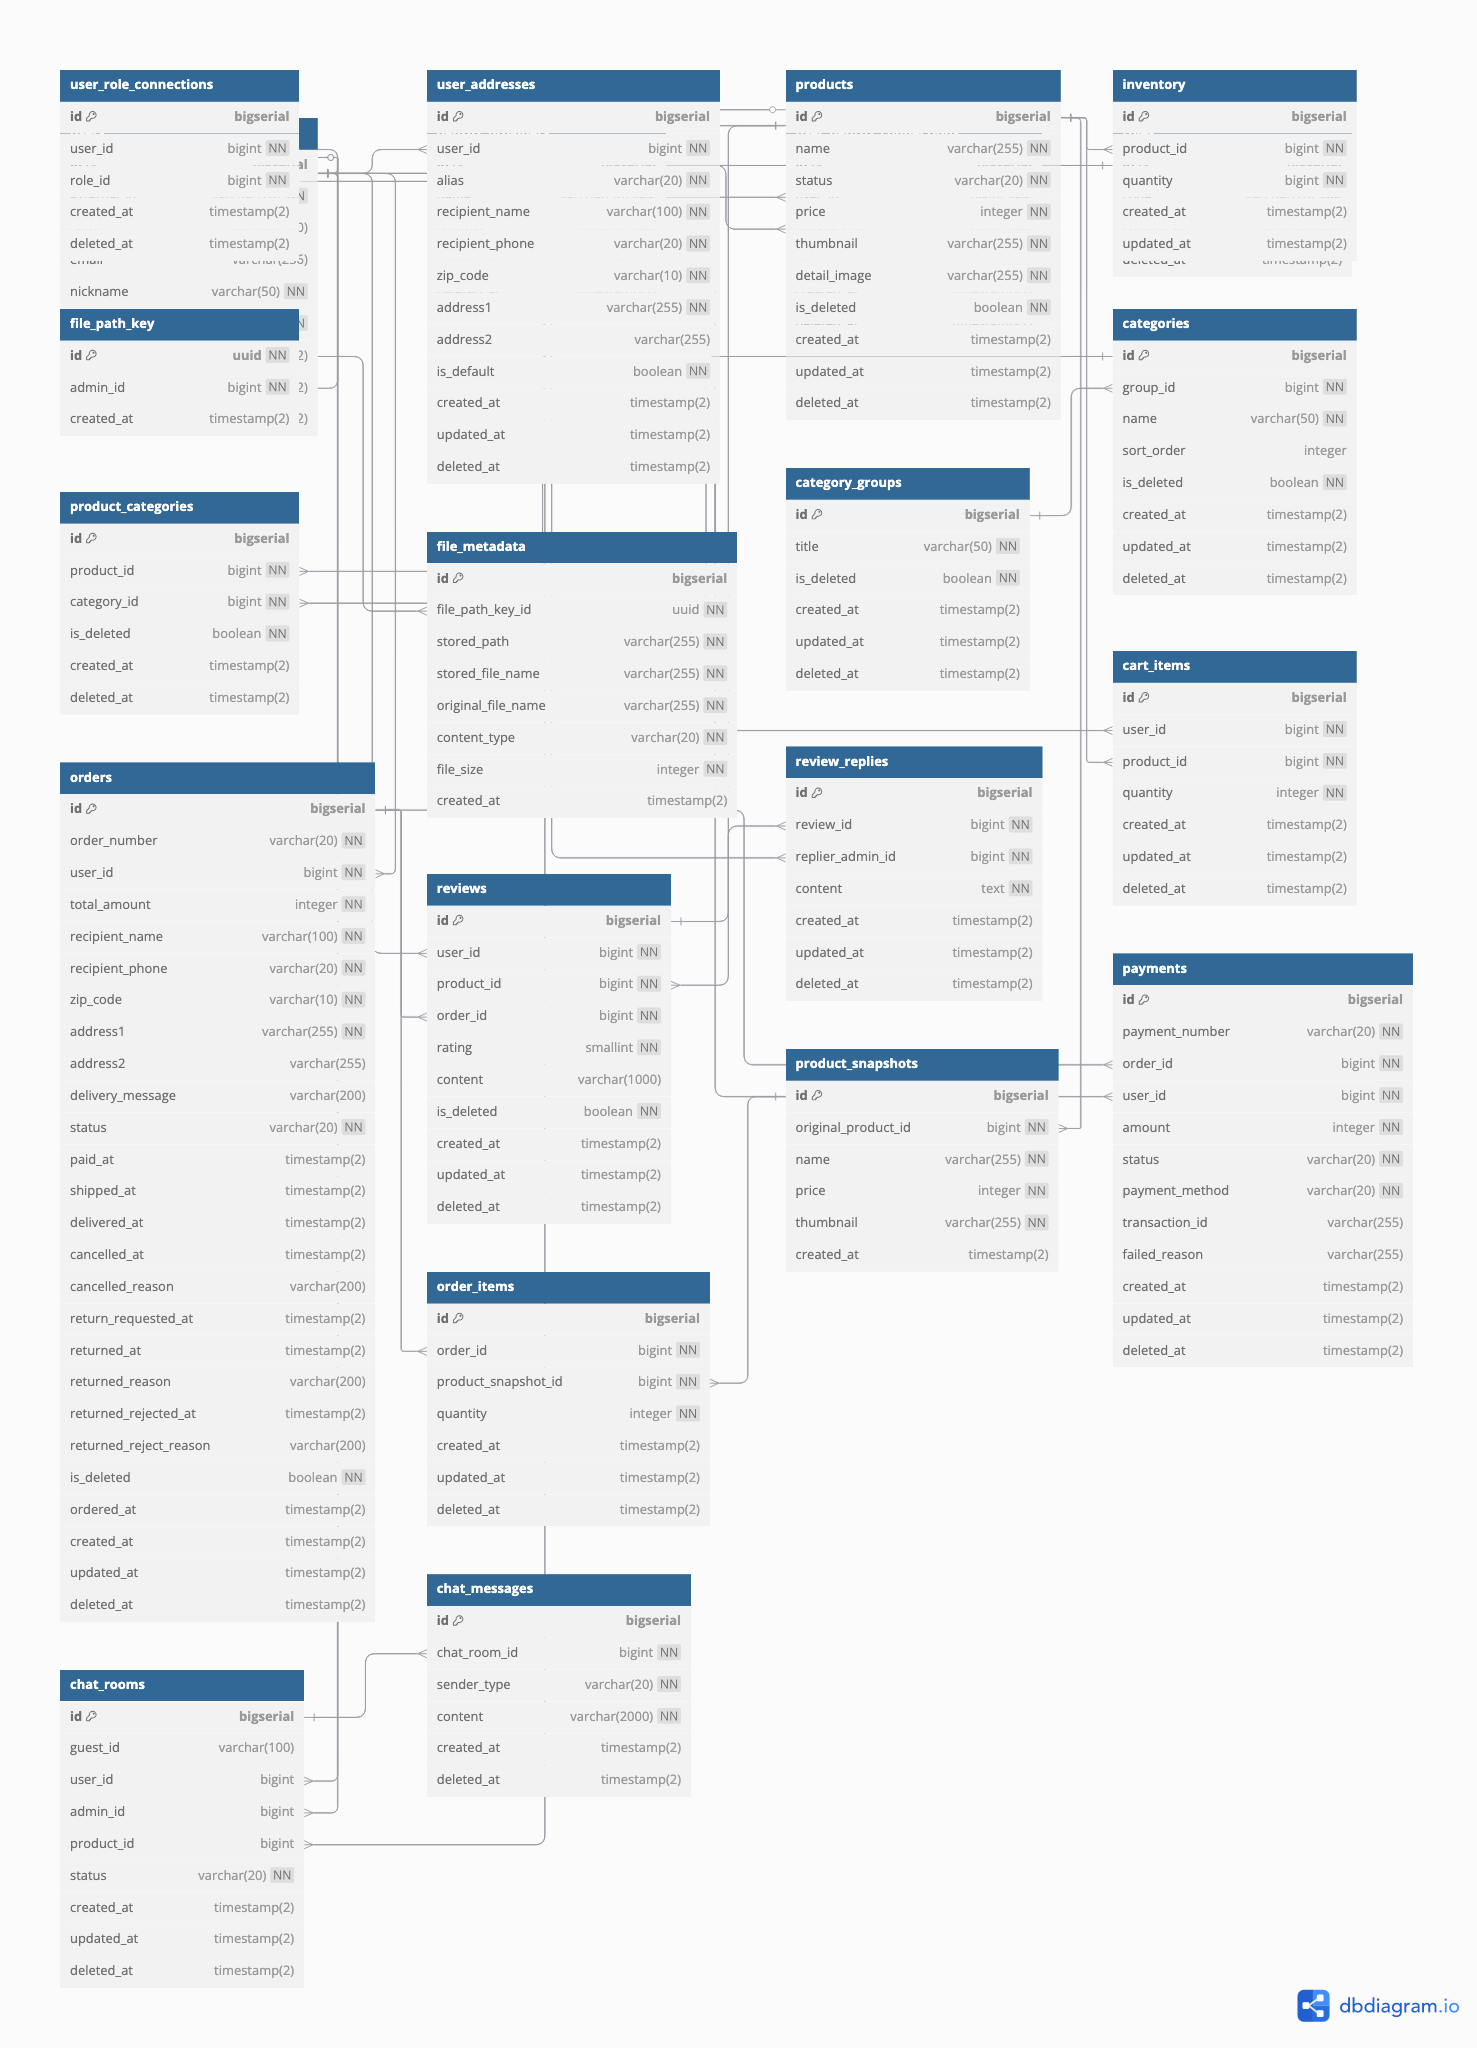
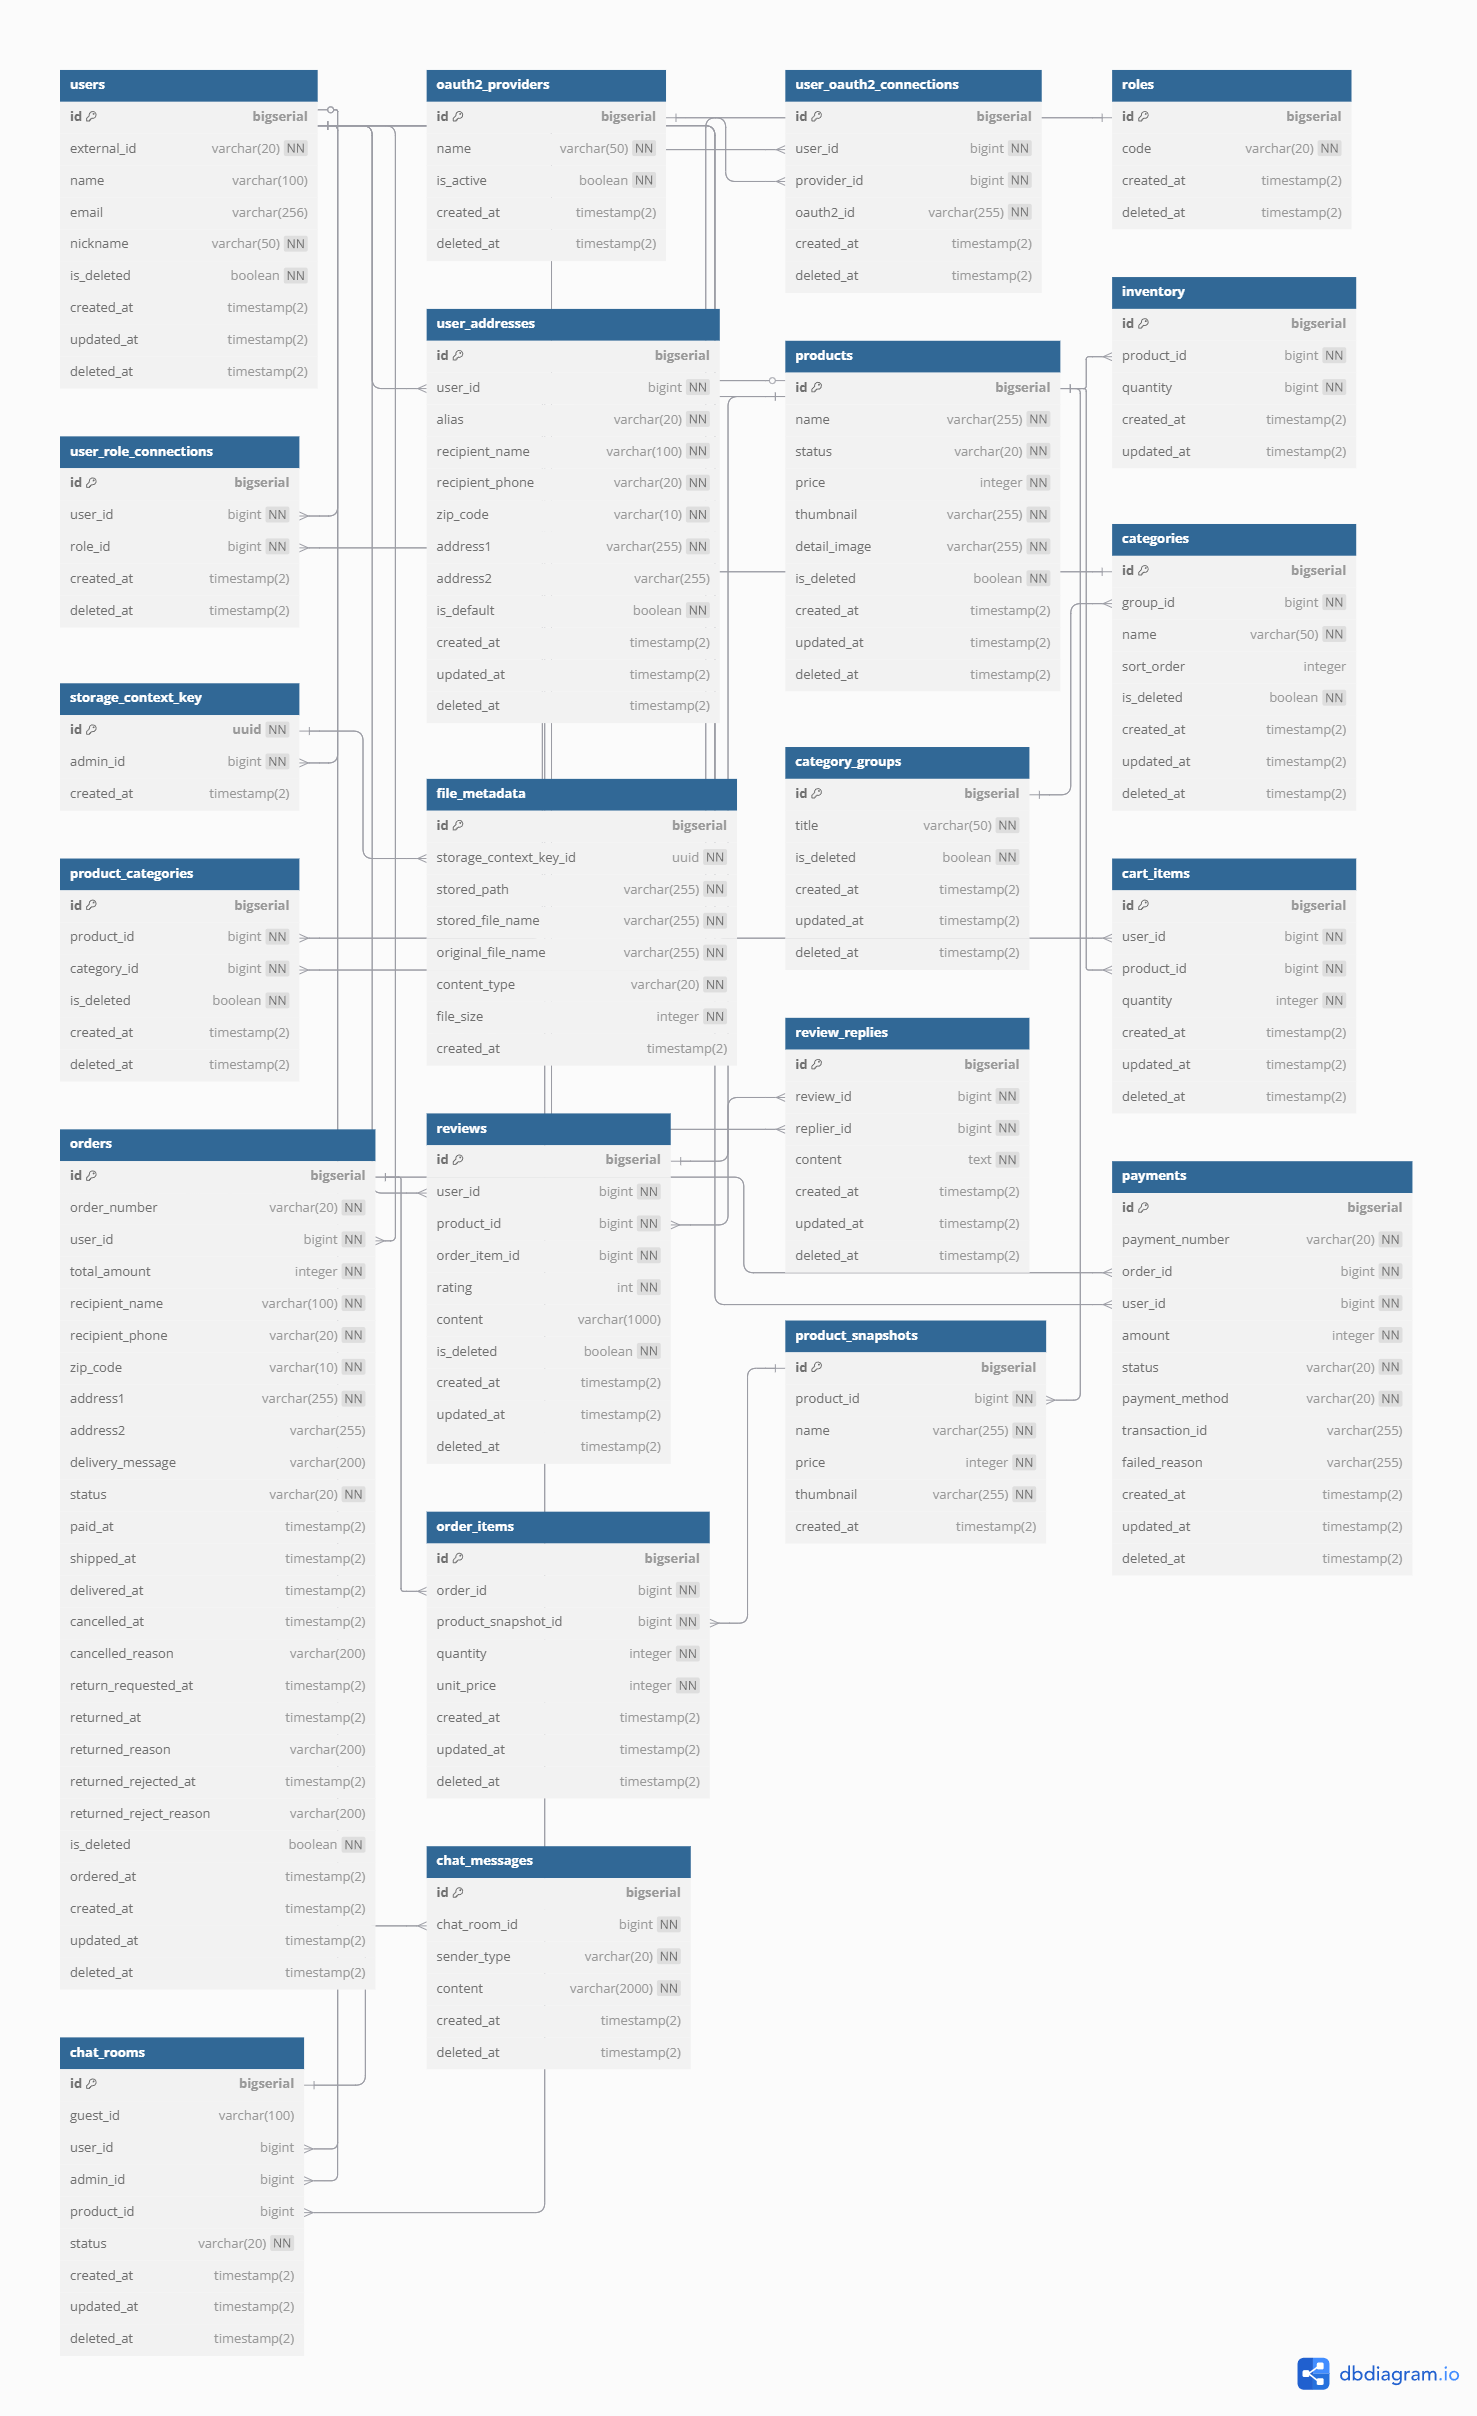
docs: 테이블 수정

Changed region(s): [[0.0311, 0.0312, 0.4983, 0.9688], [0.5295, 0.0312, 0.9655, 0.6562], [0.872, 0.9688, 0.9655, 1.0]]

diff --git a/docs/erd/dbdiagram-io.md b/docs/erd/dbdiagram-io.md
@@ -79,7 +79,7 @@ Table "inventory" {
   "updated_at" timestamp(2) [default: `current_timestamp(2)`]
 }
 
-Table "file_path_key" {
+Table "storage_context_key" {
   "id" uuid [pk, not null]
   "admin_id" bigint [not null, note: '관리자 아이디']
   "created_at" timestamp(2) [default: `current_timestamp(2)`]
@@ -87,7 +87,7 @@ Table "file_path_key" {
 
 Table "file_metadata" {
   "id" bigserial [pk, increment]
-  "file_path_key_id" uuid [not null]
+  "storage_context_key_id" uuid [not null]
   "stored_path" varchar(255) [not null, note: '저장 경로']
   "stored_file_name" varchar(255) [not null, note: '저장된 파일명']
   "original_file_name" varchar(255) [not null, note: '원본 파일명']
@@ -129,8 +129,8 @@ Table "reviews" {
   "id" bigserial [pk, increment]
   "user_id" bigint [not null, note: '회원 아이디']
   "product_id" bigint [not null, note: '상품 아이디']
-  "order_id" bigint [not null, note: '주문 아이디']
-  "rating" smallint [not null, note: '별점']
+  "order_item_id" bigint [not null, note: '주문 아이템 아이디']
+  "rating" int [not null, note: '별점']
   "content" varchar(1000) [note: '리뷰 내용']
   "is_deleted" boolean [not null, default: false]
   "created_at" timestamp(2) [default: `current_timestamp(2)`]
@@ -141,7 +141,7 @@ Table "reviews" {
 Table "review_replies" {
   "id" bigserial [pk, increment]
   "review_id" bigint [not null, note: '리뷰 아이디']
-  "replier_admin_id" bigint [not null, note: '답글 작성한 관리자 아이디']
+  "replier_id" bigint [not null, note: '답글 작성한 관리자 아이디']
   "content" text [not null, note: '답글 내용']
   "created_at" timestamp(2) [default: `current_timestamp(2)`]
   "updated_at" timestamp(2) [default: `current_timestamp(2)`]
@@ -192,6 +192,7 @@ Table "order_items" {
   "order_id" bigint [not null, note: '주문 아이디']
   "product_snapshot_id" bigint [not null, note: '주문 당시 상품 스냅샷 아이디']
   "quantity" integer [not null, note: '주문 수량']
+  "unit_price" integer [not null, note: '주문 당시 가격']
   "created_at" timestamp(2) [default: `current_timestamp(2)`]
   "updated_at" timestamp(2) [default: `current_timestamp(2)`]
   "deleted_at" timestamp(2)
@@ -199,7 +200,7 @@ Table "order_items" {
 
 Table "product_snapshots" {
   "id" bigserial [pk, increment]
-  "original_product_id" bigint [not null, note: '상품 아이디']
+  "product_id" bigint [not null, note: '상품 아이디']
   "name" varchar(255) [not null, note: '상품명']
   "price" integer [not null, note: '상품 가격']
   "thumbnail" varchar(255) [not null, note: '상품 썸네일']
@@ -252,27 +253,13 @@ Ref "fk_user_role_connections_role":"roles"."id" < "user_role_connections"."role
 
 Ref "fk_user_addresses_user":"users"."id" < "user_addresses"."user_id"
 
-Ref "fk_inventory_product":"products"."id" < "inventory"."product_id"
-
-Ref "fk_file_path_key_admin":"users"."id" < "file_path_key"."admin_id"
-
-Ref "fk_file_metadata_key":"file_path_key"."id" < "file_metadata"."file_path_key_id"
-
-Ref "fk_categories_group":"category_groups"."id" < "categories"."group_id"
-
-Ref "fk_product_categories_product":"products"."id" < "product_categories"."product_id"
-
-Ref "fk_product_categories_category":"categories"."id" < "product_categories"."category_id"
-
 Ref "fk_reviews_user":"users"."id" < "reviews"."user_id"
 
 Ref "fk_reviews_product":"products"."id" < "reviews"."product_id"
 
-Ref "fk_reviews_order":"orders"."id" < "reviews"."order_id"
-
 Ref "fk_review_replies_review":"reviews"."id" < "review_replies"."review_id"
 
-Ref "fk_review_replies_admin":"users"."id" < "review_replies"."replier_admin_id"
+Ref "fk_review_replies_replier":"users"."id" < "review_replies"."replier_id"
 
 Ref "fk_cart_items_user":"users"."id" < "cart_items"."user_id"
 
@@ -284,11 +271,23 @@ Ref "fk_order_items_order":"orders"."id" < "order_items"."order_id"
 
 Ref "fk_order_items_product_snapshot":"product_snapshots"."id" < "order_items"."product_snapshot_id"
 
-Ref "fk_product_snapshots_original":"products"."id" < "product_snapshots"."original_product_id"
+Ref "fk_product_snapshots_product":"products"."id" < "product_snapshots"."product_id"
+
+Ref "fk_payments_user":"users"."id" < "payments"."user_id"
 
 Ref "fk_payments_order":"orders"."id" < "payments"."order_id"
 
-Ref "fk_payments_user":"users"."id" < "payments"."user_id"
+Ref "fk_inventory_product":"products"."id" < "inventory"."product_id"
+
+Ref "fk_product_categories_product":"products"."id" < "product_categories"."product_id"
+
+Ref "fk_product_categories_category":"categories"."id" < "product_categories"."category_id"
+
+Ref "fk_categories_group":"category_groups"."id" < "categories"."group_id"
+
+Ref "fk_storage_context_key_admin":"users"."id" < "storage_context_key"."admin_id"
+
+Ref "fk_file_metadata_context_key":"storage_context_key"."id" < "file_metadata"."storage_context_key_id"
 
 Ref "fk_chat_rooms_user":"users"."id" < "chat_rooms"."user_id"
 
@@ -296,5 +295,5 @@ Ref "fk_chat_rooms_admin":"users"."id" < "chat_rooms"."admin_id"
 
 Ref "fk_chat_rooms_product":"products"."id" < "chat_rooms"."product_id"
 
-Ref "fk_chat_messages_room":"chat_rooms"."id" < "chat_messages"."chat_room_id"
+Ref "fk_chat_messages_chat_room":"chat_rooms"."id" < "chat_messages"."chat_room_id"
 ```
